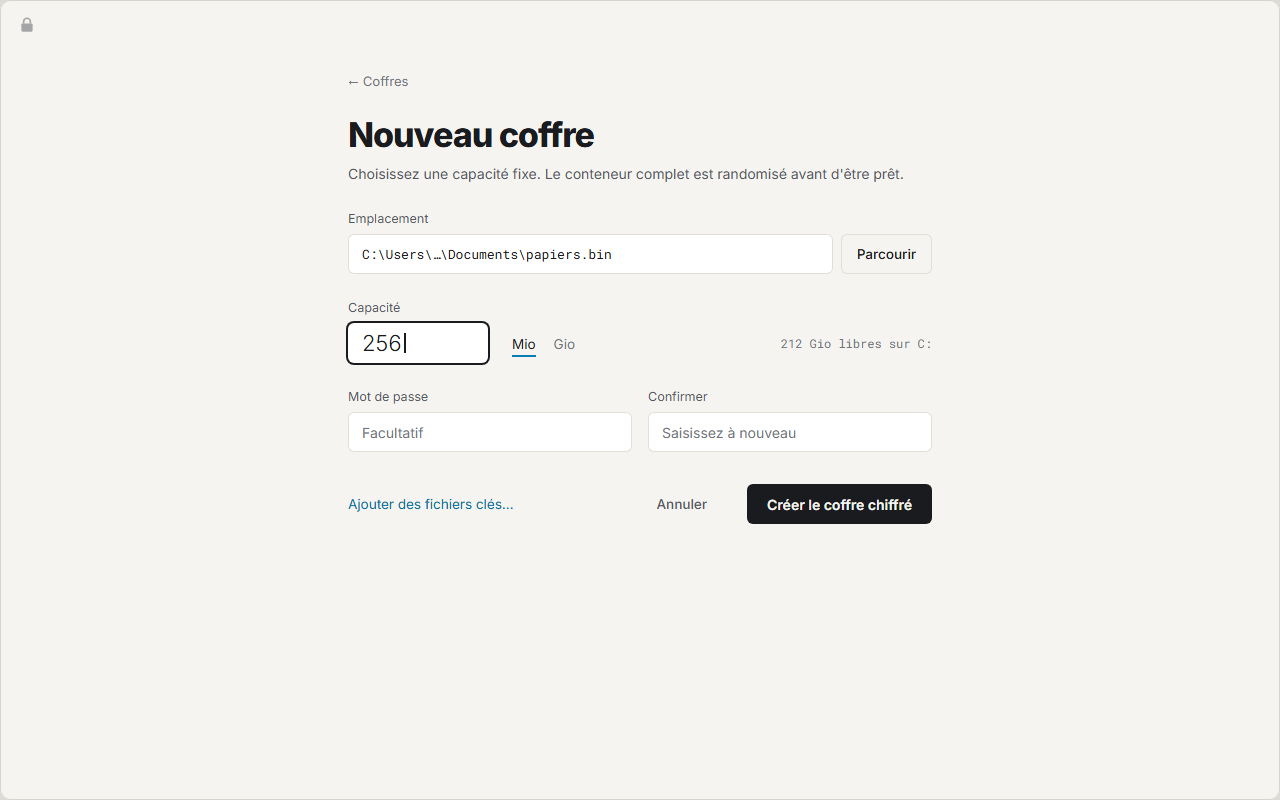
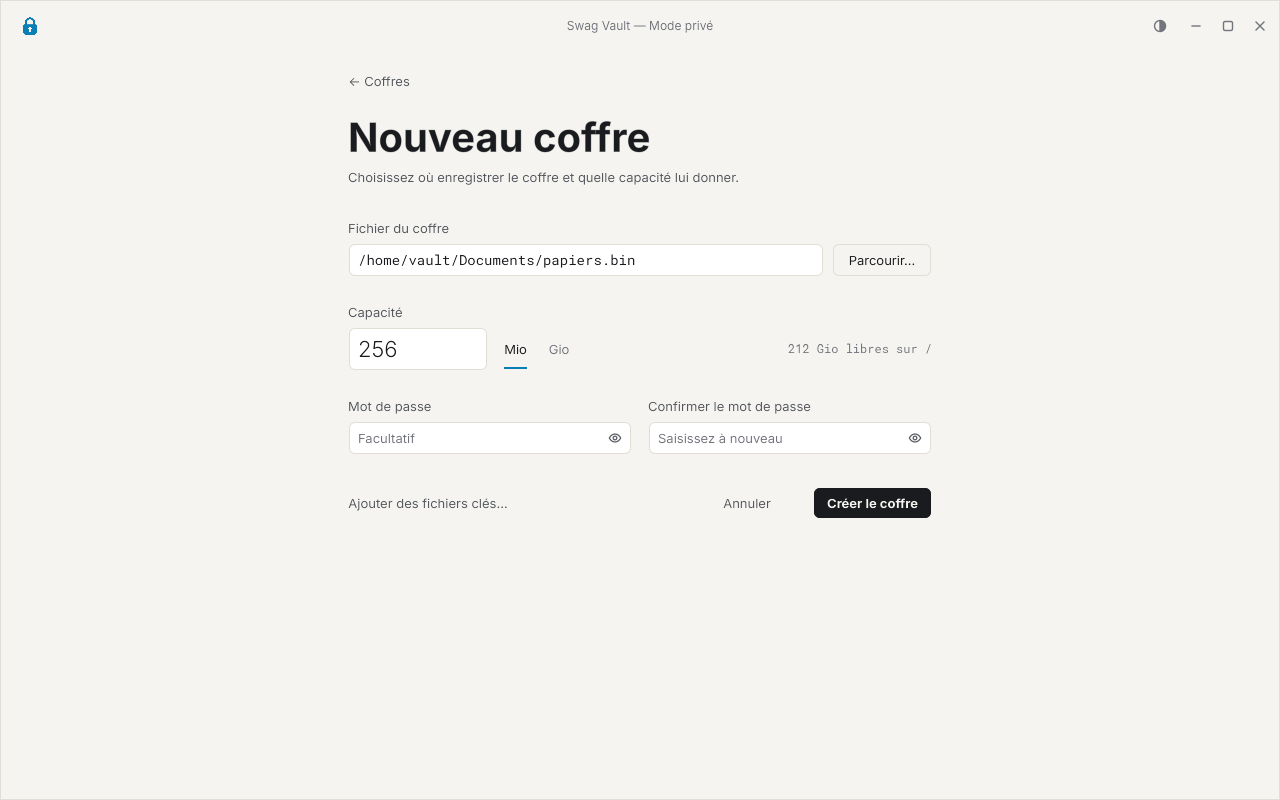
Show private mode in the Swag Vault title

diff --git a/backlog/design/silence/README.md b/backlog/design/silence/README.md
@@ -923,7 +923,8 @@ the screen to its work.
   Unmount and Force Unmount, Unmount All, Options, and Unmount and Quit. These actions share the
   lens commands. The menu identifies drives by their mount destinations.
 - The list keeps recent vaults during the session, and each can be removed individually. Privacy mode
-  skips saving the vault list, file picker history and startup mounts to disk.
+  skips saving the vault list, file picker history and startup mounts to disk. The window title shows
+  “Privacy Mode” while it is active.
 - An ordinary unmount retains an occupied drive and reports that it remains accessible. Force
   Unmount is a separate warning with Cancel as the default; it invalidates open handles and can
   lose pending application writes. Automatic policies use ordinary unmounts and retain a visible
